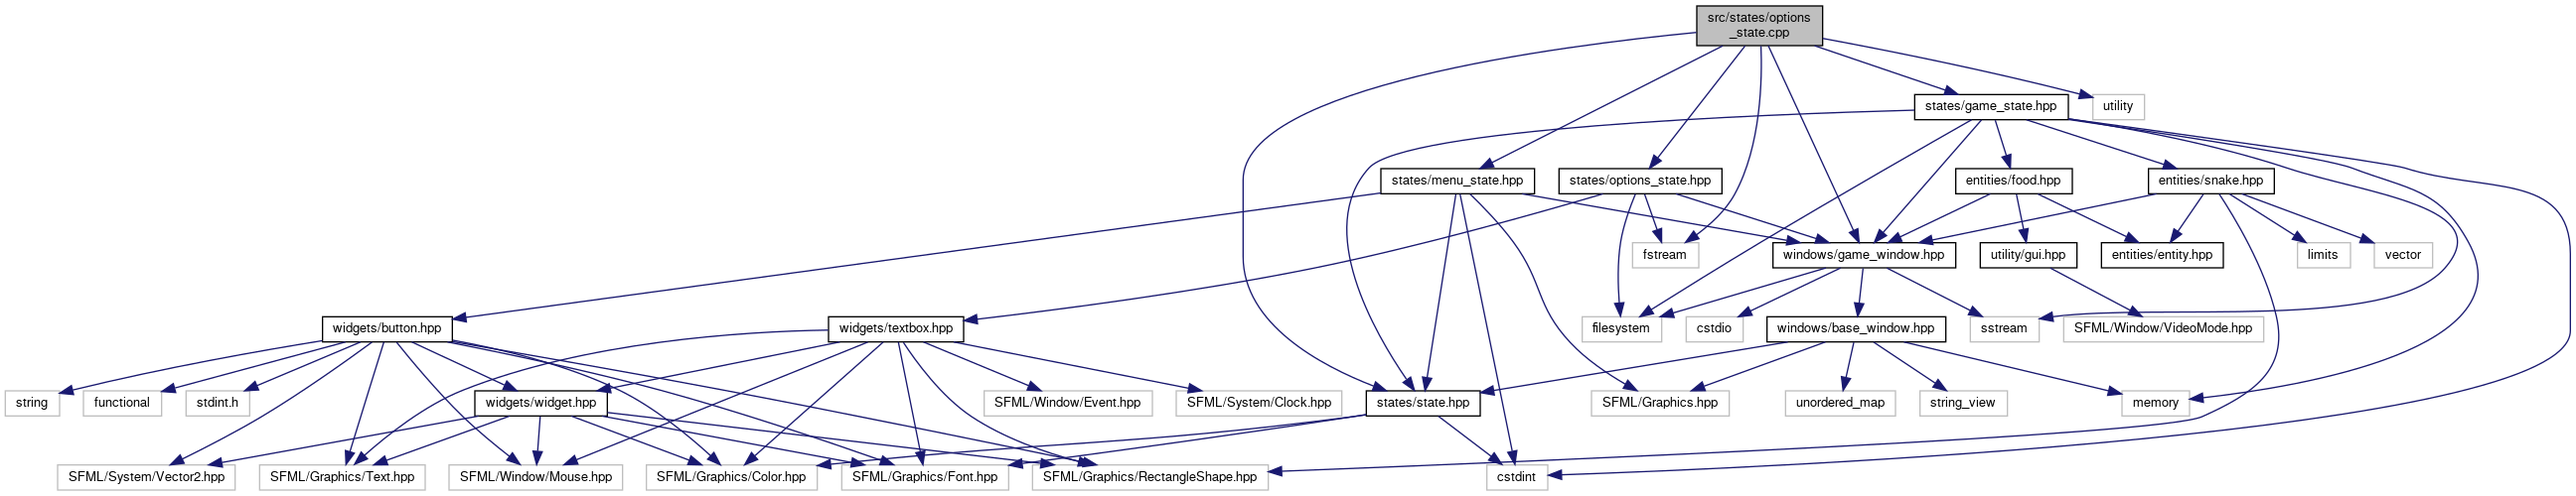
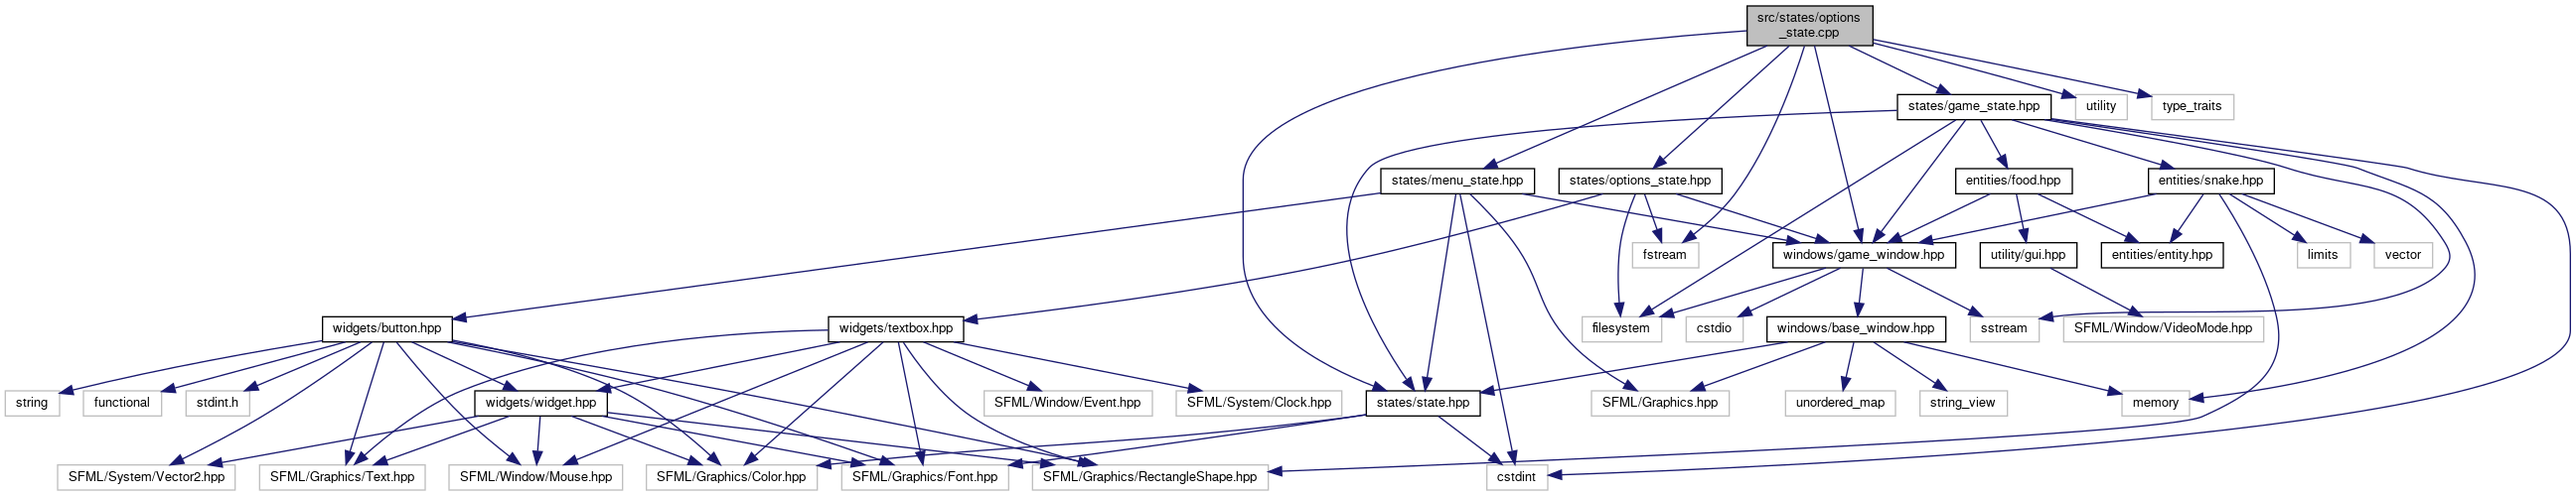
Update docs

diff --git a/docs/snake_8hpp_source.html b/docs/snake_8hpp_source.html
@@ -152,17 +152,17 @@ $(function() {
 <div class="ttc" id="aclasssnake_1_1entity_1_1Entity_html_ae70cad19cd624c9548856808a2667bb4"><div class="ttname"><a href="classsnake_1_1entity_1_1Entity.html#ae70cad19cd624c9548856808a2667bb4">snake::entity::Entity::game_window</a></div><div class="ttdeci">window::GameWindow * game_window</div><div class="ttdef"><b>Definition:</b> entity.hpp:58</div></div>
 <div class="ttc" id="aclasssnake_1_1entity_1_1Snake_html"><div class="ttname"><a href="classsnake_1_1entity_1_1Snake.html">snake::entity::Snake</a></div><div class="ttdoc">Class used to construct the snake entity.</div><div class="ttdef"><b>Definition:</b> snake.hpp:44</div></div>
 <div class="ttc" id="aclasssnake_1_1entity_1_1Snake_html_a17b8d1a912028d8a01f5b0ed7fcc298d"><div class="ttname"><a href="classsnake_1_1entity_1_1Snake.html#a17b8d1a912028d8a01f5b0ed7fcc298d">snake::entity::Snake::head</a></div><div class="ttdeci">sf::Sprite head</div><div class="ttdef"><b>Definition:</b> snake.hpp:65</div></div>
-<div class="ttc" id="aclasssnake_1_1entity_1_1Snake_html_a17e261ff4c3c3147cf0d3754e88ca145"><div class="ttname"><a href="classsnake_1_1entity_1_1Snake.html#a17e261ff4c3c3147cf0d3754e88ca145">snake::entity::Snake::Snake</a></div><div class="ttdeci">Snake(window::GameWindow *game_window)</div><div class="ttdoc">Constructor of the snake class.</div><div class="ttdef"><b>Definition:</b> snake.cpp:59</div></div>
-<div class="ttc" id="aclasssnake_1_1entity_1_1Snake_html_a53f6766ddd5ab6ade154412215f62164"><div class="ttname"><a href="classsnake_1_1entity_1_1Snake.html#a53f6766ddd5ab6ade154412215f62164">snake::entity::Snake::update</a></div><div class="ttdeci">void update()</div><div class="ttdoc">Method used to update the entity movement.</div><div class="ttdef"><b>Definition:</b> snake.cpp:105</div></div>
+<div class="ttc" id="aclasssnake_1_1entity_1_1Snake_html_a17e261ff4c3c3147cf0d3754e88ca145"><div class="ttname"><a href="classsnake_1_1entity_1_1Snake.html#a17e261ff4c3c3147cf0d3754e88ca145">snake::entity::Snake::Snake</a></div><div class="ttdeci">Snake(window::GameWindow *game_window)</div><div class="ttdoc">Constructor of the snake class.</div><div class="ttdef"><b>Definition:</b> snake.cpp:60</div></div>
+<div class="ttc" id="aclasssnake_1_1entity_1_1Snake_html_a53f6766ddd5ab6ade154412215f62164"><div class="ttname"><a href="classsnake_1_1entity_1_1Snake.html#a53f6766ddd5ab6ade154412215f62164">snake::entity::Snake::update</a></div><div class="ttdeci">void update()</div><div class="ttdoc">Method used to update the entity movement.</div><div class="ttdef"><b>Definition:</b> snake.cpp:121</div></div>
 <div class="ttc" id="aclasssnake_1_1entity_1_1Snake_html_a7891330a146d12cbf07b746db3ee247b"><div class="ttname"><a href="classsnake_1_1entity_1_1Snake.html#a7891330a146d12cbf07b746db3ee247b">snake::entity::Snake::speedV</a></div><div class="ttdeci">float speedV</div><div class="ttdef"><b>Definition:</b> snake.hpp:64</div></div>
-<div class="ttc" id="aclasssnake_1_1entity_1_1Snake_html_a97693dad3198ab50592bb2fdcd8d43df"><div class="ttname"><a href="classsnake_1_1entity_1_1Snake.html#a97693dad3198ab50592bb2fdcd8d43df">snake::entity::Snake::bodyGrow</a></div><div class="ttdeci">void bodyGrow()</div><div class="ttdoc">Method used to grow the snake body when food is ate.</div><div class="ttdef"><b>Definition:</b> snake.cpp:225</div></div>
-<div class="ttc" id="aclasssnake_1_1entity_1_1Snake_html_aa3f88d52619159168399abb9e96e2498"><div class="ttname"><a href="classsnake_1_1entity_1_1Snake.html#aa3f88d52619159168399abb9e96e2498">snake::entity::Snake::setGrowPosition</a></div><div class="ttdeci">void setGrowPosition(float x, float y)</div><div class="ttdoc">Method used to set the grow position.</div><div class="ttdef"><b>Definition:</b> snake.cpp:191</div></div>
+<div class="ttc" id="aclasssnake_1_1entity_1_1Snake_html_a97693dad3198ab50592bb2fdcd8d43df"><div class="ttname"><a href="classsnake_1_1entity_1_1Snake.html#a97693dad3198ab50592bb2fdcd8d43df">snake::entity::Snake::bodyGrow</a></div><div class="ttdeci">void bodyGrow()</div><div class="ttdoc">Method used to grow the snake body when food is ate.</div><div class="ttdef"><b>Definition:</b> snake.cpp:241</div></div>
+<div class="ttc" id="aclasssnake_1_1entity_1_1Snake_html_aa3f88d52619159168399abb9e96e2498"><div class="ttname"><a href="classsnake_1_1entity_1_1Snake.html#aa3f88d52619159168399abb9e96e2498">snake::entity::Snake::setGrowPosition</a></div><div class="ttdeci">void setGrowPosition(float x, float y)</div><div class="ttdoc">Method used to set the grow position.</div><div class="ttdef"><b>Definition:</b> snake.cpp:207</div></div>
 <div class="ttc" id="aclasssnake_1_1entity_1_1Snake_html_aab2556731db340b9c825c314c7d7b40c"><div class="ttname"><a href="classsnake_1_1entity_1_1Snake.html#aab2556731db340b9c825c314c7d7b40c">snake::entity::Snake::body_shape</a></div><div class="ttdeci">sf::RectangleShape body_shape</div><div class="ttdef"><b>Definition:</b> snake.hpp:66</div></div>
 <div class="ttc" id="aclasssnake_1_1entity_1_1Snake_html_ad2eba40b1cfbd5ec68914bc8a3f751b4"><div class="ttname"><a href="classsnake_1_1entity_1_1Snake.html#ad2eba40b1cfbd5ec68914bc8a3f751b4">snake::entity::Snake::body</a></div><div class="ttdeci">std::vector&lt; sf::RectangleShape &gt; body</div><div class="ttdef"><b>Definition:</b> snake.hpp:67</div></div>
-<div class="ttc" id="aclasssnake_1_1entity_1_1Snake_html_aedcf5d46988e73abb2d16ca623a52fa6"><div class="ttname"><a href="classsnake_1_1entity_1_1Snake.html#aedcf5d46988e73abb2d16ca623a52fa6">snake::entity::Snake::draw</a></div><div class="ttdeci">void draw() const override</div><div class="ttdoc">Method used to draw the snake entity.</div><div class="ttdef"><b>Definition:</b> snake.cpp:209</div></div>
-<div class="ttc" id="aclasssnake_1_1entity_1_1Snake_html_af3471c815cd6fb9fbc3269ac0607c16b"><div class="ttname"><a href="classsnake_1_1entity_1_1Snake.html#af3471c815cd6fb9fbc3269ac0607c16b">snake::entity::Snake::moveSmoothly</a></div><div class="ttdeci">void moveSmoothly(const float dir_x, const float dir_y)</div><div class="ttdoc">Method used to smoothly move an entity.</div><div class="ttdef"><b>Definition:</b> snake.cpp:83</div></div>
-<div class="ttc" id="aclasssnake_1_1entity_1_1Snake_html_afba27271af462e9e505e0b7e7456eb56"><div class="ttname"><a href="classsnake_1_1entity_1_1Snake.html#afba27271af462e9e505e0b7e7456eb56">snake::entity::Snake::relHeadPos</a></div><div class="ttdeci">void relHeadPos(float x, float y)</div><div class="ttdoc">Method used to correct the head position with respect to the body one.</div><div class="ttdef"><b>Definition:</b> snake.cpp:260</div></div>
-<div class="ttc" id="aclasssnake_1_1entity_1_1Snake_html_afea18ebc0e1048884a80c62a08d70807"><div class="ttname"><a href="classsnake_1_1entity_1_1Snake.html#afea18ebc0e1048884a80c62a08d70807">snake::entity::Snake::death</a></div><div class="ttdeci">void death()</div><div class="ttdoc">Method used to deal with snake death.</div><div class="ttdef"><b>Definition:</b> snake.cpp:274</div></div>
+<div class="ttc" id="aclasssnake_1_1entity_1_1Snake_html_aedcf5d46988e73abb2d16ca623a52fa6"><div class="ttname"><a href="classsnake_1_1entity_1_1Snake.html#aedcf5d46988e73abb2d16ca623a52fa6">snake::entity::Snake::draw</a></div><div class="ttdeci">void draw() const override</div><div class="ttdoc">Method used to draw the snake entity.</div><div class="ttdef"><b>Definition:</b> snake.cpp:225</div></div>
+<div class="ttc" id="aclasssnake_1_1entity_1_1Snake_html_af3471c815cd6fb9fbc3269ac0607c16b"><div class="ttname"><a href="classsnake_1_1entity_1_1Snake.html#af3471c815cd6fb9fbc3269ac0607c16b">snake::entity::Snake::moveSmoothly</a></div><div class="ttdeci">void moveSmoothly(const float dir_x, const float dir_y)</div><div class="ttdoc">Method used to smoothly move an entity.</div><div class="ttdef"><b>Definition:</b> snake.cpp:99</div></div>
+<div class="ttc" id="aclasssnake_1_1entity_1_1Snake_html_afba27271af462e9e505e0b7e7456eb56"><div class="ttname"><a href="classsnake_1_1entity_1_1Snake.html#afba27271af462e9e505e0b7e7456eb56">snake::entity::Snake::relHeadPos</a></div><div class="ttdeci">void relHeadPos(float x, float y)</div><div class="ttdoc">Method used to correct the head position with respect to the body one.</div><div class="ttdef"><b>Definition:</b> snake.cpp:276</div></div>
+<div class="ttc" id="aclasssnake_1_1entity_1_1Snake_html_afea18ebc0e1048884a80c62a08d70807"><div class="ttname"><a href="classsnake_1_1entity_1_1Snake.html#afea18ebc0e1048884a80c62a08d70807">snake::entity::Snake::death</a></div><div class="ttdeci">void death()</div><div class="ttdoc">Method used to deal with snake death.</div><div class="ttdef"><b>Definition:</b> snake.cpp:290</div></div>
 <div class="ttc" id="aclasssnake_1_1window_1_1GameWindow_html"><div class="ttname"><a href="classsnake_1_1window_1_1GameWindow.html">snake::window::GameWindow</a></div><div class="ttdoc">Class used to create the game window.</div><div class="ttdef"><b>Definition:</b> game_window.hpp:44</div></div>
 <div class="ttc" id="aentity_8hpp_html"><div class="ttname"><a href="entity_8hpp.html">entity.hpp</a></div></div>
 <div class="ttc" id="agame__window_8hpp_html"><div class="ttname"><a href="game__window_8hpp.html">game_window.hpp</a></div></div>

diff --git a/docs/options__state_8hpp_source.html b/docs/options__state_8hpp_source.html
@@ -150,8 +150,8 @@ $(function() {
 <div class="line"><a name="l00088"></a><span class="lineno">   88</span>&#160; </div>
 <div class="line"><a name="l00089"></a><span class="lineno">   89</span>&#160;<span class="preprocessor">#endif</span></div>
 <div class="ttc" id="aclasssnake_1_1state_1_1OptionsState_html"><div class="ttname"><a href="classsnake_1_1state_1_1OptionsState.html">snake::state::OptionsState</a></div><div class="ttdoc">Class used to create the options menu.</div><div class="ttdef"><b>Definition:</b> options_state.hpp:41</div></div>
-<div class="ttc" id="aclasssnake_1_1state_1_1OptionsState_html_a04cafda9ebf15f50deed68d5e078b299"><div class="ttname"><a href="classsnake_1_1state_1_1OptionsState.html#a04cafda9ebf15f50deed68d5e078b299">snake::state::OptionsState::OptionsState</a></div><div class="ttdeci">OptionsState(window::GameWindow *game_window)</div><div class="ttdoc">Constructor of the OptionsState class.</div><div class="ttdef"><b>Definition:</b> options_state.cpp:53</div></div>
-<div class="ttc" id="aclasssnake_1_1state_1_1OptionsState_html_a9f8f42b2cba2848c83f29daaba006fb8"><div class="ttname"><a href="classsnake_1_1state_1_1OptionsState.html#a9f8f42b2cba2848c83f29daaba006fb8">snake::state::OptionsState::drawState</a></div><div class="ttdeci">void drawState() override</div><div class="ttdoc">Method used to draw the current state.</div><div class="ttdef"><b>Definition:</b> options_state.cpp:70</div></div>
+<div class="ttc" id="aclasssnake_1_1state_1_1OptionsState_html_a04cafda9ebf15f50deed68d5e078b299"><div class="ttname"><a href="classsnake_1_1state_1_1OptionsState.html#a04cafda9ebf15f50deed68d5e078b299">snake::state::OptionsState::OptionsState</a></div><div class="ttdeci">OptionsState(window::GameWindow *game_window)</div><div class="ttdoc">Constructor of the OptionsState class.</div><div class="ttdef"><b>Definition:</b> options_state.cpp:54</div></div>
+<div class="ttc" id="aclasssnake_1_1state_1_1OptionsState_html_a9f8f42b2cba2848c83f29daaba006fb8"><div class="ttname"><a href="classsnake_1_1state_1_1OptionsState.html#a9f8f42b2cba2848c83f29daaba006fb8">snake::state::OptionsState::drawState</a></div><div class="ttdeci">void drawState() override</div><div class="ttdoc">Method used to draw the current state.</div><div class="ttdef"><b>Definition:</b> options_state.cpp:71</div></div>
 <div class="ttc" id="aclasssnake_1_1state_1_1State_html"><div class="ttname"><a href="classsnake_1_1state_1_1State.html">snake::state::State</a></div><div class="ttdoc">Class used to define base state for the other states.</div><div class="ttdef"><b>Definition:</b> state.hpp:43</div></div>
 <div class="ttc" id="aclasssnake_1_1window_1_1GameWindow_html"><div class="ttname"><a href="classsnake_1_1window_1_1GameWindow.html">snake::window::GameWindow</a></div><div class="ttdoc">Class used to create the game window.</div><div class="ttdef"><b>Definition:</b> game_window.hpp:44</div></div>
 <div class="ttc" id="agame__window_8hpp_html"><div class="ttname"><a href="game__window_8hpp.html">game_window.hpp</a></div></div>

diff --git a/docs/options__state_8cpp.html b/docs/options__state_8cpp.html
@@ -80,19 +80,21 @@ $(function() {
 <code>#include &lt;<a class="el" href="game__state_8hpp_source.html">states/game_state.hpp</a>&gt;</code><br />
 <code>#include &lt;utility&gt;</code><br />
 <code>#include &lt;fstream&gt;</code><br />
+<code>#include &lt;type_traits&gt;</code><br />
 </div><div class="textblock"><div class="dynheader">
 Include dependency graph for options_state.cpp:</div>
 <div class="dyncontent">
 <div class="center"><img src="options__state_8cpp__incl.png" border="0" usemap="#asrc_2states_2options__state_8cpp" alt=""/></div>
 <map name="asrc_2states_2options__state_8cpp" id="asrc_2states_2options__state_8cpp">
-<area shape="rect" title=" " alt="" coords="1708,5,1835,47"/>
+<area shape="rect" title=" " alt="" coords="1759,5,1885,47"/>
 <area shape="rect" href="game__window_8hpp.html" title=" " alt="" coords="1785,244,1969,271"/>
 <area shape="rect" href="state_8hpp.html" title=" " alt="" coords="1375,393,1490,420"/>
 <area shape="rect" href="options__state_8hpp.html" title=" " alt="" coords="1569,169,1733,196"/>
 <area shape="rect" title=" " alt="" coords="1643,244,1710,271"/>
 <area shape="rect" href="menu__state_8hpp.html" title=" " alt="" coords="1390,169,1545,196"/>
-<area shape="rect" href="game__state_8hpp.html" title=" " alt="" coords="1927,95,2082,121"/>
-<area shape="rect" title=" " alt="" coords="2107,95,2159,121"/>
+<area shape="rect" href="game__state_8hpp.html" title=" " alt="" coords="1910,95,2065,121"/>
+<area shape="rect" title=" " alt="" coords="2089,95,2141,121"/>
+<area shape="rect" title=" " alt="" coords="2166,95,2249,121"/>
 <area shape="rect" href="base__window_8hpp.html" title=" " alt="" coords="1779,319,1959,345"/>
 <area shape="rect" title=" " alt="" coords="1697,319,1755,345"/>
 <area shape="rect" title=" " alt="" coords="1983,319,2053,345"/>

diff --git a/docs/snake_8cpp.html b/docs/snake_8cpp.html
@@ -85,12 +85,13 @@ $(function() {
 <code>#include &lt;algorithm&gt;</code><br />
 <code>#include &lt;memory&gt;</code><br />
 <code>#include &lt;vector&gt;</code><br />
+<code>#include &lt;fstream&gt;</code><br />
 </div><div class="textblock"><div class="dynheader">
 Include dependency graph for snake.cpp:</div>
 <div class="dyncontent">
 <div class="center"><img src="snake_8cpp__incl.png" border="0" usemap="#asrc_2entities_2snake_8cpp" alt=""/></div>
 <map name="asrc_2entities_2snake_8cpp" id="asrc_2entities_2snake_8cpp">
-<area shape="rect" title=" " alt="" coords="536,5,685,32"/>
+<area shape="rect" title=" " alt="" coords="561,5,711,32"/>
 <area shape="rect" href="game__window_8hpp.html" title=" " alt="" coords="113,155,297,181"/>
 <area shape="rect" title=" " alt="" coords="66,379,238,405"/>
 <area shape="rect" title=" " alt="" coords="43,304,111,331"/>
@@ -103,6 +104,7 @@ Include dependency graph for snake.cpp:</div>
 <area shape="rect" title=" " alt="" coords="1092,80,1268,107"/>
 <area shape="rect" title=" " alt="" coords="1293,80,1462,107"/>
 <area shape="rect" title=" " alt="" coords="1487,80,1561,107"/>
+<area shape="rect" title=" " alt="" coords="1585,80,1652,107"/>
 <area shape="rect" href="base__window_8hpp.html" title=" " alt="" coords="291,229,471,256"/>
 <area shape="rect" title=" " alt="" coords="495,229,553,256"/>
 <area shape="rect" title=" " alt="" coords="93,229,163,256"/>
